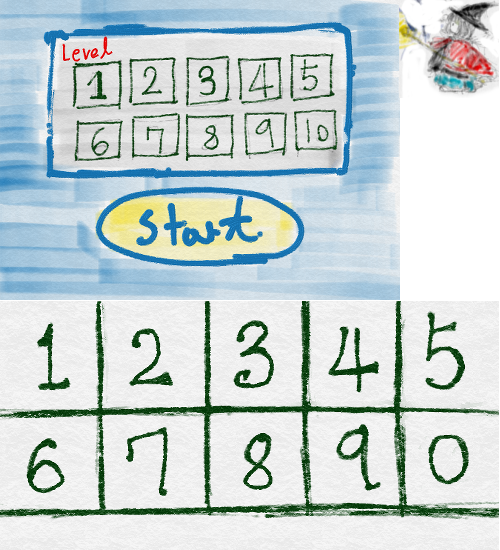
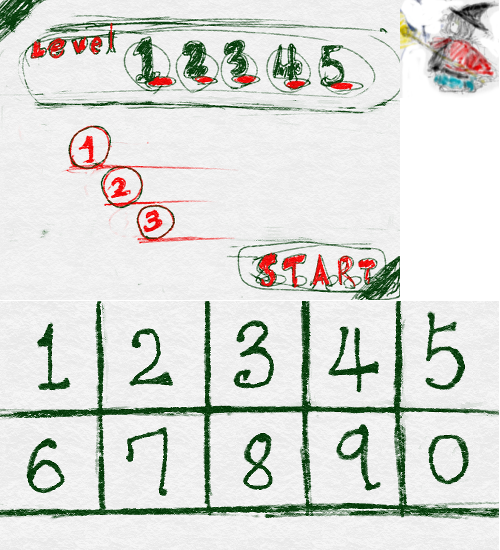
..

diff --git a/demo/mino/lib/gui/prepare.dart b/demo/mino/lib/gui/prepare.dart
@@ -24,43 +24,25 @@ class PrepareScene extends TinyDisplayObject {
 
     TinyButton level1 = new TinyButton("L01", 45.0, 45.0, onLevelButton);
     level1.bgcolorOff = new TinyColor.argb(0x00, 0xff, 0xff, 0xff);
-    level1.mat.translate(70.0,60.0,0.0);
+    level1.mat.translate(50+70.0,50.0,0.0);
 
     TinyButton level2 = new TinyButton("L02", 45.0, 45.0, onLevelButton);
     level2.bgcolorOff = new TinyColor.argb(0x00, 0xff, 0xff, 0xff);
-    level2.mat.translate(135.0,60.0,0.0);
+    level2.mat.translate(50+125.0,50.0,0.0);
 
     TinyButton level3 = new TinyButton("L03", 45.0, 45.0, onLevelButton);
     level3.bgcolorOff = new TinyColor.argb(0x00, 0xff, 0xff, 0xff);
-    level3.mat.translate(185.0,60.0,0.0);
+    level3.mat.translate(50+165.0,50.0,0.0);
 
     TinyButton level4 = new TinyButton("L04", 45.0, 45.0, onLevelButton);
     level4.bgcolorOff = new TinyColor.argb(0x00, 0xff, 0xff, 0xff);
-    level4.mat.translate(235.0,60.0,0.0);
+    level4.mat.translate(50+215.0,50.0,0.0);
 
     TinyButton level5 = new TinyButton("L05", 45.0, 45.0, onLevelButton);
     level5.bgcolorOff = new TinyColor.argb(0x00, 0xff, 0xff, 0xff);
-    level5.mat.translate(285.0,60.0,0.0);
+    level5.mat.translate(50+265.0,50.0,0.0);
     
-    TinyButton level6 = new TinyButton("L06", 45.0, 45.0, onLevelButton);
-    level6.bgcolorOff = new TinyColor.argb(0x00, 0xff, 0xff, 0xff);
-    level6.mat.translate(70.0,110.0,0.0);
 
-    TinyButton level7 = new TinyButton("L07", 45.0, 45.0, onLevelButton);
-    level7.bgcolorOff = new TinyColor.argb(0x00, 0xff, 0xff, 0xff);
-    level7.mat.translate(135.0,110.0,0.0);
-
-    TinyButton level8 = new TinyButton("L08", 45.0, 45.0, onLevelButton);
-    level8.bgcolorOff = new TinyColor.argb(0x00, 0xff, 0xff, 0xff);
-    level8.mat.translate(185.0,110.0,0.0);
-
-    TinyButton level9 = new TinyButton("L09", 45.0, 45.0, onLevelButton);
-    level9.bgcolorOff = new TinyColor.argb(0x00, 0xff, 0xff, 0xff);
-    level9.mat.translate(245.0,110.0,0.0);
-
-    TinyButton level10 = new TinyButton("L10", 45.0, 45.0, onLevelButton);
-    level10.bgcolorOff = new TinyColor.argb(0x00, 0xff, 0xff, 0xff);
-    level10.mat.translate(295.0,110.0,0.0);
     
     addChild(level1);
     addChild(level2);
@@ -68,15 +50,10 @@ class PrepareScene extends TinyDisplayObject {
     addChild(level4);
     addChild(level5);
 
-    addChild(level6);
-    addChild(level7);
-    addChild(level8);
-    addChild(level9);
-    addChild(level10);
     level = 1;
     onLevelButton("L01");
-    TinyButton startB = new TinyButton("start", 200.0, 50.0, onStartButton);
-    startB.mat.translate(100.0,200.0,0.0);
+    TinyButton startB = new TinyButton("start", 150.0, 50.0, onStartButton);
+    startB.mat.translate(240.0,250.0,0.0);
     addChild(startB);
   }
   
@@ -86,54 +63,29 @@ class PrepareScene extends TinyDisplayObject {
     print("touch # ${id}");
     switch(id) {
       case "L01":
-        chX = 75.0;
+        chX = 120.0;
+        chY = 60.0;
+        level = 0;
+        break;
+      case "L02":
+        chX = 175.0;
         chY = 60.0;
         level = 1;
         break;
-      case "L02":
-        chX = 75.0+50.0*1;
+      case "L03":
+        chX = 215.0;
         chY = 60.0;
         level = 2;
         break;
-      case "L03":
-        chX = 75.0+50.0*2;
+      case "L04":
+        chX = 265.0;
         chY = 60.0;
         level = 3;
         break;
-      case "L04":
-        chX = 75.0+50.0*3;
+      case "L05":
+        chX = 315.0;
         chY = 60.0;
         level = 4;
-        break;
-      case "L05":
-        chX = 75.0+50.0*4;
-        chY = 60.0;
-        level = 5;
-        break;
-      case "L06":
-        chX = 75.0+50.0*0;
-        chY = 110.0;
-        level = 6;
-        break;
-      case "L07":
-        chX = 75.0+50.0*1;
-        chY = 110.0;
-        level = 7;
-        break;
-      case "L08":
-        chX = 75.0+50.0*2;
-        chY = 110.0;
-        level = 8;
-        break;
-      case "L09":
-        chX = 75.0+50.0*3;
-        chY = 110.0;
-        level = 9;
-        break;
-      case "L10":
-        chX = 75.0+50.0*4;
-        chY = 110.0;
-        level = 10;
         break;
     }
   }
@@ -159,7 +111,7 @@ class PrepareScene extends TinyDisplayObject {
         canvas.drawImageRect(stage, bgimg, 
             spriteInfo.frameFromFileName("CH001.png").srcRect,
             //srcRect,
-            new TinyRect(chX, chY,50.0,50.0), p);
+            new TinyRect(chX, chY,35.0,35.0), p);
       }
   }
 }

diff --git a/demo/mino/lib/glogic/glogic.dart b/demo/mino/lib/glogic/glogic.dart
@@ -9,8 +9,8 @@ class MinoGame {
   
   static final int levelMax = 5;
   static final List<int> levelAutoDownIntervalTimes = [500, 250, 200, 150, 110];
-  static final List<int> levelMoveIntervalTimes = [200, 150, 125, 100, 75];
-  static final List<int> levelRotateIntervalTimes = [150, 125, 100, 95, 75];
+  static final List<int> levelMoveIntervalTimes = [150, 150, 125, 100, 85];
+  static final List<int> levelRotateIntervalTimes = [150, 125, 100, 95, 85];
   int get moveInterval => levelMoveIntervalTimes[level];
   int get atuoMoveInterval => levelAutoDownIntervalTimes[level]; 
   int get rotateInterval =>levelRotateIntervalTimes[level];
@@ -64,7 +64,7 @@ class MinoGame {
     
   }
   downWithLevel(int timeStamp, {fource:false}) {
-    if(fource == true || lastMoveTimeStamp+atuoMoveInterval < timeStamp) {
+    if(fource == true || lastMoveTimeStamp+moveInterval/2 < timeStamp) {
       lastMoveTimeStamp = timeStamp;
       down();
     }

diff --git a/demo/mino/lib/gui/playscene.dart b/demo/mino/lib/gui/playscene.dart
@@ -68,6 +68,9 @@ class PlayScene extends TinyDisplayObject {
   void onTick(TinyStage stage, int timeStamp) {
     scoreUI.score = game.score;
     levelUI.score = game.level;
+    if(game.nexts.length > 1 && game.nexts[1] != null) {
+      nextUI.setMinon(game.nexts[1]);
+    }
 
     game.onTouchStart(timeStamp);
     if (joystick.directionX > 0.5) {
